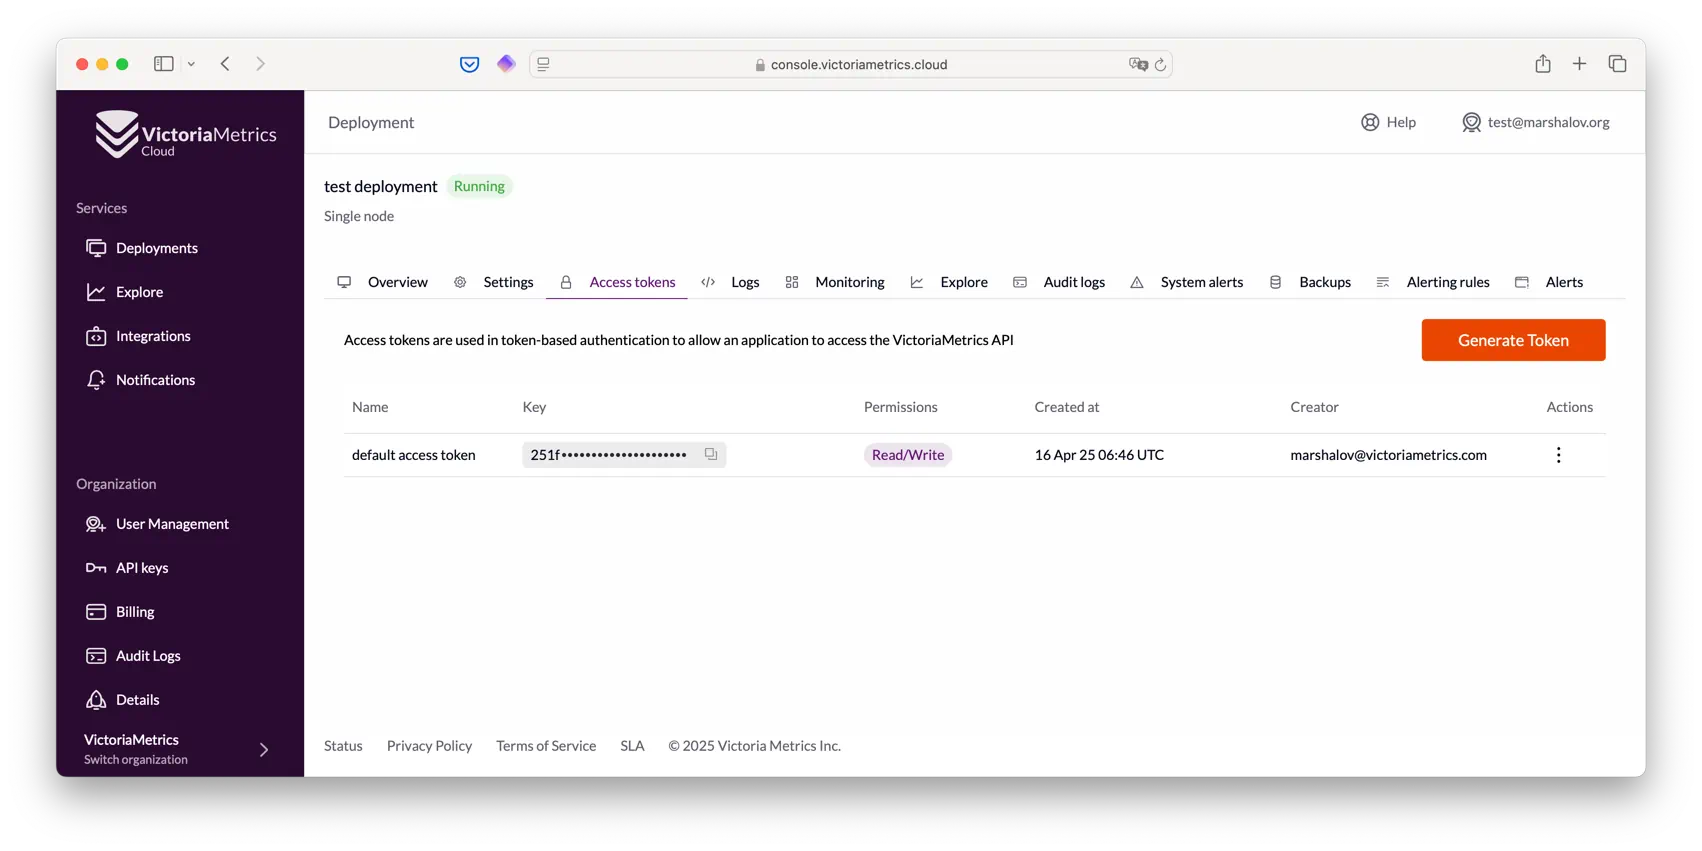
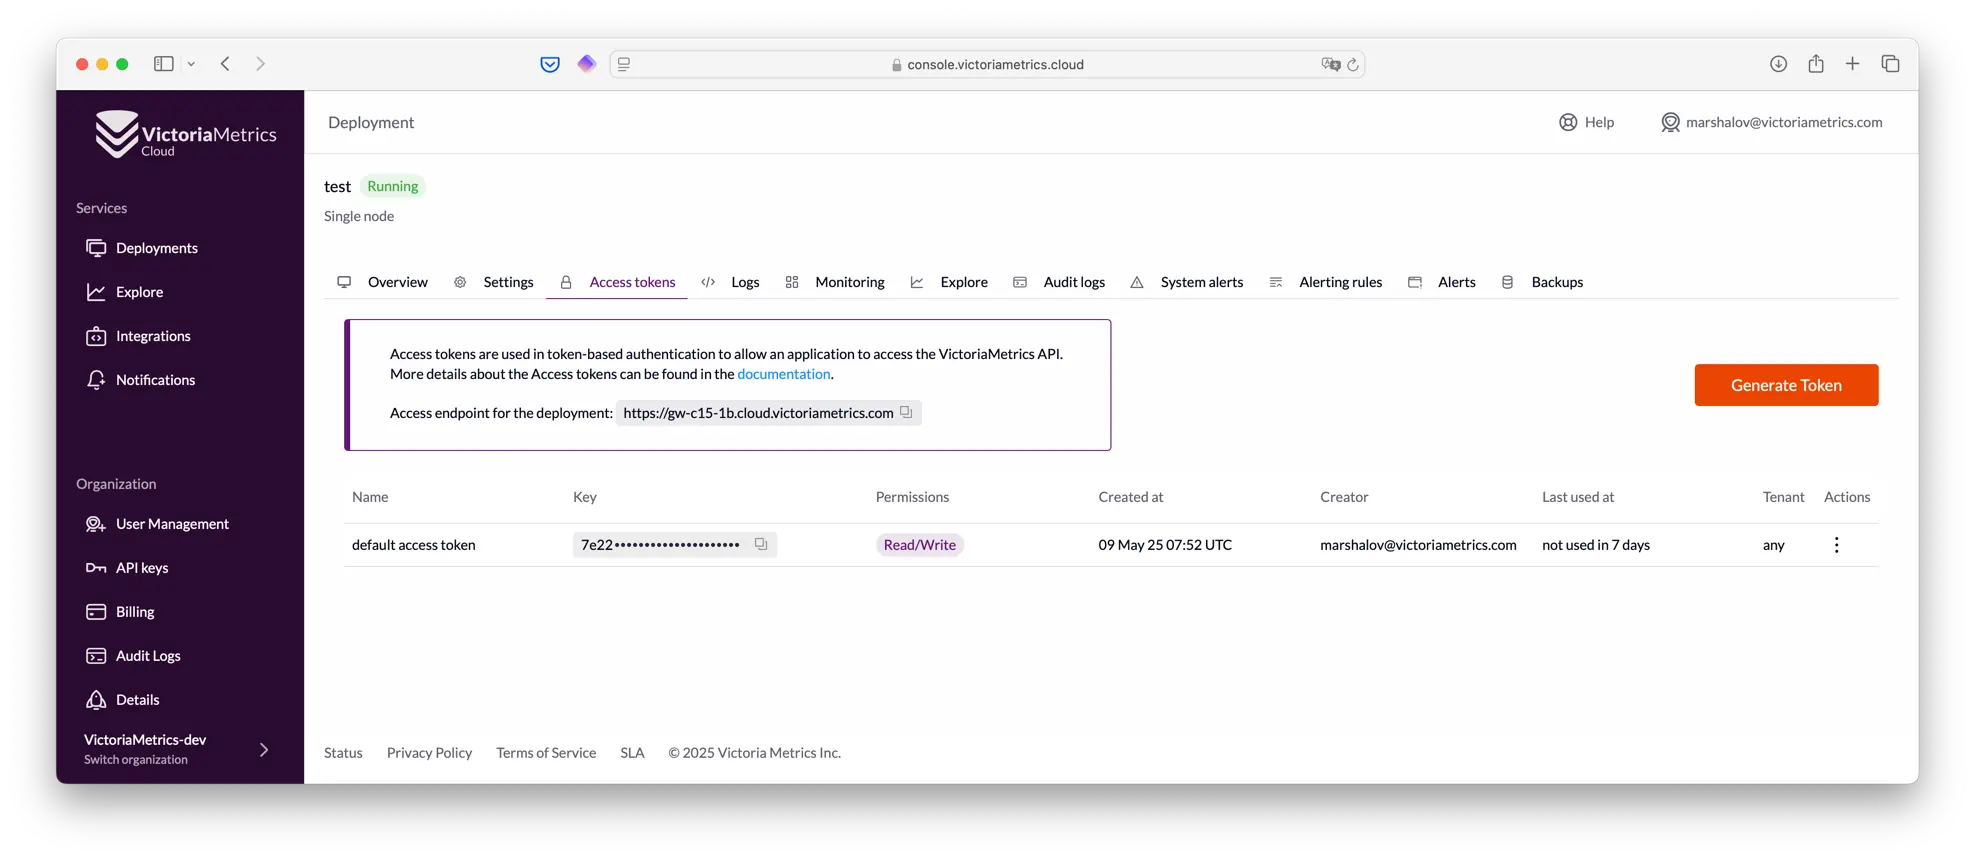
vmcloud: small fixes in access tokens docs (#8915)
### Describe Your Changes

Please provide a brief description of the changes you made. Be as
specific as possible to help others understand the purpose and impact of
your modifications.

### Checklist

The following checks are **mandatory**:

- [X] My change adheres to [VictoriaMetrics contributing
guidelines](https://docs.victoriametrics.com/victoriametrics/contributing/).

diff --git a/docs/victoriametrics-cloud/deployments/access-tokens.md b/docs/victoriametrics-cloud/deployments/access-tokens.md
@@ -45,6 +45,7 @@ It allows to:
 - Secure access partially in case of a leak
 
 Each Access token has a limit for concurrent requests. You may find more details about it on the [Tier Parameters and Flag Parameters Configuration](https://docs.victoriametrics.com/victoriametrics-cloud/tiers-parameters/) page.
+You can also check current concurrent requests value for each token on the "Monitoring" tab of the deployment page in the graph "Access token concurrent requests".
 
 ## How to create access tokens
 
@@ -87,7 +88,7 @@ Authorization: Bearer <SECRET_VAUE>
 Each deployment has one access endpoint, i.e., the URL used to communicate with your deployment's API 
 for [writing and reading](#how-to-write-and-read-data-with-access-tokens) data.
 
-You can find it in the "Overview" tab on the deployment page:
+You can find it on "Access tokens" tab or "Overview" tab of the deployment page:
 
 ![Access endpoint](access-endpoint.webp)
 
@@ -131,7 +132,7 @@ You can also open the Examples section of Access tokens:
 
 ## How to revoke access tokens
 
-1. Make sure the token is no longer in use
+1. Make sure the token is no longer in use. You can check "Last used at" column on "Access tokens" tab of the deployment page for that.
 2. Go to the "Access tokens" tab on the [deployment page](https://console.victoriametrics.cloud/deployments)
 3. Find the required token in the list
 4. Click "..." button in the Actions column next to the required token in the list
